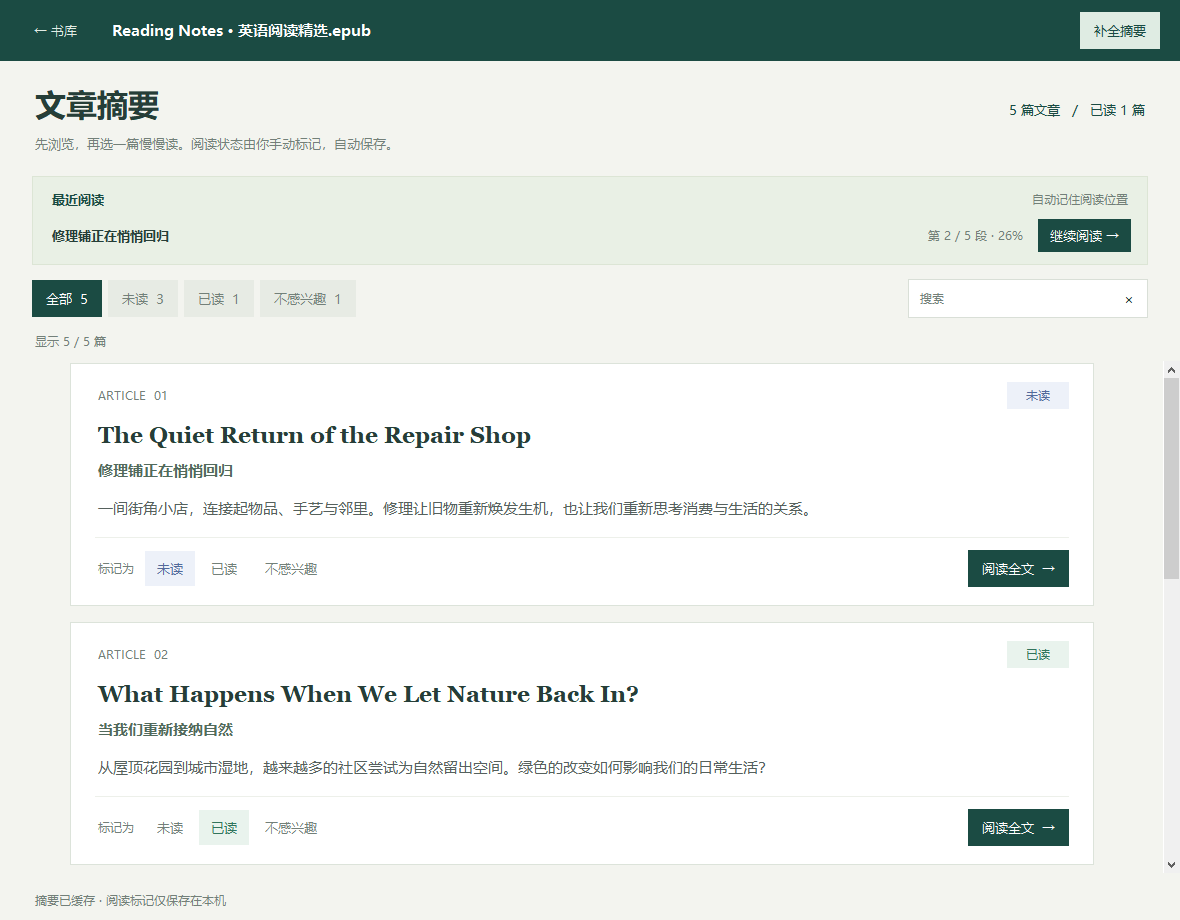
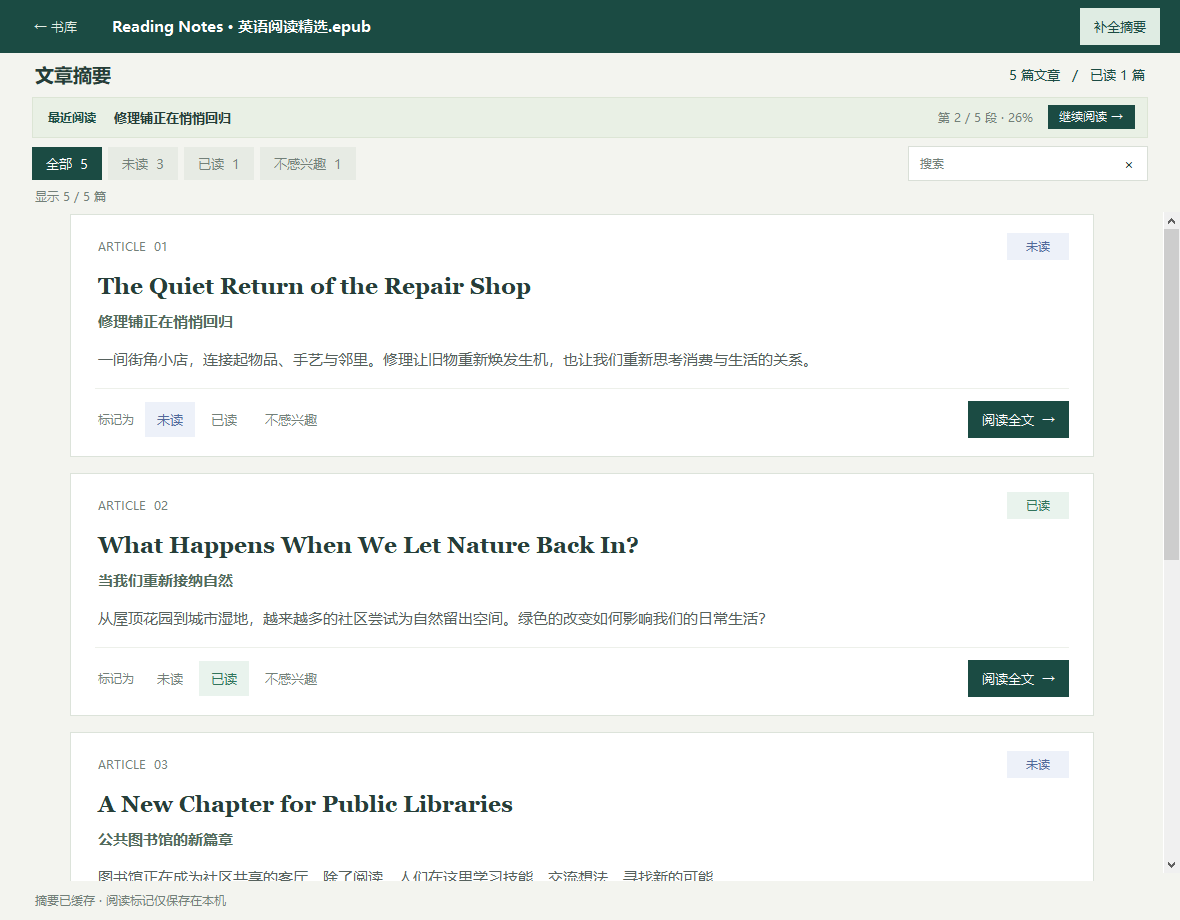
fix: 压缩摘要页顶部布局并复用段落生词窗口

diff --git a/tests/run_tests.py b/tests/run_tests.py
@@ -643,6 +643,84 @@ def test_vocab_sheet_scroll():
         app.destroy()
 
 
+@case("同段生词窗口复用、恢复、刷新与关闭重开")
+def test_vocab_sheet_reuse():
+    import tkinter as tk
+    from tkinter import ttk
+    from types import SimpleNamespace
+    from kandu.ui_reader import ReaderFrame
+
+    root = tk.Tk()
+    root.geometry("900x620")
+    app = SimpleNamespace(settings={"readerFontSize": 13, "sheetFontSize": 11,
+                                    "vocabLevel": "cet4", "llms": []},
+                          post=lambda *args: None, save_settings=lambda: None,
+                          open_digest=lambda *args: None)
+    meta = dict(META, id="T_VOCAB_REUSE")
+    article = {"index": 0, "title": "Repair stories", "paragraphs": ["Old objects.", "Useful skills."]}
+    errors = []
+    root.report_callback_exception = lambda *args: errors.append(args)
+    try:
+        reader = ReaderFrame(root, app, meta, 0)
+        reader.pack(fill="both", expand=True)
+        reader.on_content_loaded(({"articles": [article]}, 0))
+        reader.vocab = {"level": "cet4", "articleIndex": 0, "paragraphs": [
+            {"index": 0, "entries": [{"word": f"word{i}", "sense": "示例释义"} for i in range(100)]},
+            {"index": 1, "entries": [{"word": "ingenuity", "sense": "巧思"}]}]}
+        root.update()
+        reader._show_para_vocab(0)
+        root.update()
+        win, txt, bar = reader._vocab_sheets[0]
+        win.geometry("520x400")
+        root.update()
+        txt.yview_moveto(.45)
+        root.update()
+        scroll_index = txt.index("@0,0")
+        for _ in range(4):
+            reader._show_para_vocab(0)
+            root.update()
+            assert reader._vocab_sheets[0][0] is win
+            assert len([w for w in reader.winfo_children() if isinstance(w, tk.Toplevel)]) == 1
+            assert txt.index("@0,0") == scroll_index, "重复查看应保留当前可见词条，不能跳到开头"
+        assert not win.attributes("-topmost") and root.grab_current() is None and not win.transient()
+        win.withdraw()
+        root.update()
+        reader._show_para_vocab(0)
+        root.update()
+        assert win.winfo_ismapped() and win.focus_lastfor() is txt, "应恢复已有窗口并聚焦词条"
+        reader.vocab["paragraphs"][0]["entries"][0].update(
+            sense="最新释义", senseSource="dictionary", contextPending=True)
+        for _ in range(3):
+            reader._show_para_vocab(0)
+            root.update()
+        assert "最新释义" in txt.get("1.0", "end"), "复用窗口应显示最新缓存词条"
+        enrich = lambda: [w for w in bar.winfo_children() if isinstance(w, ttk.Button)
+                          and str(w.cget("text")).startswith("补充本文释义")]
+        assert len(enrich()) == 1, "复用窗口不能重复添加补充释义按钮"
+        reader.vocab["paragraphs"][0]["entries"][0].pop("senseSource")
+        reader.vocab["paragraphs"][0]["entries"][0].pop("contextPending")
+        reader._show_para_vocab(0)
+        assert not enrich(), "补充释义完成后不能保留旧按钮"
+        reader._show_para_vocab(1)
+        reader._show_full_vocab()
+        root.update()
+        assert len(reader._vocab_sheets) == 3, "不同段落与全篇窗口应各自独立"
+        full = reader._vocab_sheets[None][0]
+        reader._show_full_vocab()
+        assert reader._vocab_sheets[None][0] is full
+        win.destroy()
+        assert 0 not in reader._vocab_sheets, "关闭窗口必须清理登记"
+        reader._show_para_vocab(0)
+        root.update()
+        replacement = reader._vocab_sheets[0][0]
+        assert replacement is not win and replacement.winfo_ismapped()
+        reader.destroy()
+        assert not reader._vocab_sheets, "离开文章时必须关闭窗口并清理登记"
+        assert not errors, errors
+    finally:
+        root.destroy()
+
+
 @case("阅读弹窗首次与重复打开均可切回正文")
 def test_reader_sheet_activation():
     if sys.platform != "win32":
@@ -924,6 +1002,48 @@ def test_digest_browsing():
             x, y = root.winfo_rootx(), root.winfo_rooty()
             ImageGrab.grab((x, y, x + root.winfo_width(), y + root.winfo_height())).save(target)
         assert not errors, f"界面回调异常：{errors}"
+    finally:
+        root.destroy()
+
+
+@case("摘要顶部紧凑布局与最近阅读入口")
+def test_digest_compact_header():
+    import tkinter as tk
+    from types import SimpleNamespace
+    from kandu.ui_digest import DigestFrame
+
+    meta = dict(META, id="T_COMPACT_DIGEST")
+    digest = {"bookId": meta["id"], "articles": [
+        {"index": i, "titleEn": f"A story about repair {i}", "titleZh": f"修理铺的故事 {i}",
+         "summaryZh": "人们重新学习修理物品，让熟悉的街区再次焕发生机。"} for i in range(12)]}
+    store.save_digest(digest)
+    for i in range(3):
+        store.save_reading_progress(meta["id"], i, {
+            "title": digest["articles"][i]["titleEn"], "titleZh": digest["articles"][i]["titleZh"],
+            "paragraphIndex": i + 1, "paragraphOffset": 0, "paragraphStart": "People repair things.",
+            "paragraphCount": 30, "wordCount": 1200, "progress": (i + 1) / 30,
+            "atStart": False, "atEnd": False})
+    opened = []
+    app = SimpleNamespace(settings={"llms": []}, show_library=lambda: None,
+                          open_reader=lambda book, index: opened.append(index),
+                          post=lambda *args: (_ for _ in ()).throw(AssertionError("不能调用 LLM")))
+    root = tk.Tk()
+    try:
+        with patch.object(gen, "digest_incomplete", return_value=False):
+            frame = DigestFrame(root, app, meta)
+        frame.pack(fill="both", expand=True)
+        for geometry in ("900x620", "1180x800"):
+            root.geometry(geometry)
+            root.update()
+            top = frame.canvas.winfo_rooty() - frame.winfo_rooty()
+            assert top <= 285, f"三个最近阅读入口时顶部占用过多：{geometry}, {top}px"
+            assert frame.canvas.winfo_height() > root.winfo_height() / 2
+            assert len(frame.recent_buttons) == 3 and frame.recent_section.winfo_ismapped()
+            for button in frame.recent_buttons.values():
+                assert button.winfo_ismapped() and button.winfo_width() >= button.winfo_reqwidth()
+            print(f"  {geometry}: header {top}px, article viewport {frame.canvas.winfo_height()}px")
+        frame.recent_buttons[1].invoke()
+        assert opened == [1]
     finally:
         root.destroy()
 

diff --git a/kandu/ui_digest.py b/kandu/ui_digest.py
@@ -50,7 +50,7 @@ class DigestFrame(tk.Frame):
             self._filter = "all"
         self.search_var = tk.StringVar(self, value=view.get("search", ""))
 
-        bar = tk.Frame(self, bg=GREEN, padx=20, pady=12)
+        bar = tk.Frame(self, bg=GREEN, padx=20, pady=8)
         bar.pack(fill="x")
         bar.columnconfigure(1, weight=1)
         self._button(bar, "← 书库", self.app.show_library,
@@ -68,18 +68,16 @@ class DigestFrame(tk.Frame):
         self.gen_btn = self._button(actions, "补全摘要", self.generate, bg="#dfece3", fg=GREEN)
         self.gen_btn.pack(side="left")
 
-        heading = tk.Frame(self, bg=PAPER, padx=32, pady=20)
+        heading = tk.Frame(self, bg=PAPER, padx=32, pady=6)
         heading.pack(fill="x")
         title_row = tk.Frame(heading, bg=PAPER)
         title_row.pack(fill="x")
         tk.Label(title_row, text="文章摘要", bg=PAPER, fg=INK,
-                 font=(FAMILY, 23, "bold")).pack(side="left")
+                 font=(FAMILY, 14, "bold")).pack(side="left")
         self.overview = tk.Label(title_row, text="", bg=PAPER, fg=GREEN, font=(FAMILY, 10))
-        self.overview.pack(side="right", pady=(12, 0))
-        tk.Label(heading, text="先浏览，再选一篇慢慢读。阅读状态由你手动标记，自动保存。",
-                 bg=PAPER, fg=MUTED, font=(FAMILY, 10), anchor="w").pack(fill="x", pady=(4, 0))
+        self.overview.pack(side="right")
 
-        self.recent_section = tk.Frame(self, bg="#e9f0e5", padx=16, pady=10,
+        self.recent_section = tk.Frame(self, bg="#e9f0e5", padx=12, pady=4,
                                         highlightthickness=1, highlightbackground="#dce5d5")
         controls = tk.Frame(self, bg=PAPER, padx=32)
         self._controls = controls
@@ -89,11 +87,11 @@ class DigestFrame(tk.Frame):
         filters.grid(row=0, column=0, sticky="w")
         self.filter_buttons = {}
         for key, label in [("all", "全部"), *[(s, v[0]) for s, v in STATES.items()]]:
-            button = self._button(filters, label, lambda s=key: self._select_filter(s))
+            button = self._button(filters, label, lambda s=key: self._select_filter(s), pady=4)
             button.pack(side="left", padx=(0, 6))
             self.filter_buttons[key] = button
         search_box = tk.Frame(controls, bg="white", highlightthickness=1,
-                              highlightbackground="#d9dfd7", padx=8, pady=6)
+                              highlightbackground="#d9dfd7", padx=8, pady=4)
         search_box.grid(row=0, column=1, sticky="e", padx=(12, 0))
         tk.Label(search_box, text="搜索", bg="white", fg=MUTED, font=(FAMILY, 9)).pack(side="left", padx=(0, 8))
         self.search_entry = tk.Entry(search_box, textvariable=self.search_var, width=20,
@@ -102,7 +100,7 @@ class DigestFrame(tk.Frame):
         self.search_entry.bind("<Escape>", lambda e: self._reset_filters())
         self._button(search_box, "×", lambda: self.search_var.set(""), padx=3, pady=0).pack(side="left")
         self.result_label = tk.Label(controls, text="", bg=PAPER, fg=MUTED, font=(FAMILY, 9), anchor="w")
-        self.result_label.grid(row=1, column=0, columnspan=2, sticky="ew", pady=(12, 8))
+        self.result_label.grid(row=1, column=0, columnspan=2, sticky="ew", pady=(4, 4))
 
         self.progress_row = tk.Frame(self, bg=PAPER, padx=32, pady=8)
         self.progress_row.pack(side="bottom", fill="x")
@@ -271,18 +269,16 @@ class DigestFrame(tk.Frame):
         if not recent:
             self.recent_section.pack_forget()
             return
-        self.recent_section.pack(fill="x", padx=32, pady=(0, 14), before=self._controls)
-        heading = tk.Frame(self.recent_section, bg="#e9f0e5")
-        heading.pack(fill="x", pady=(0, 5))
-        tk.Label(heading, text="最近阅读", bg="#e9f0e5", fg=GREEN,
-                 font=(FAMILY, 10, "bold")).pack(side="left")
-        tk.Label(heading, text="自动记住阅读位置", bg="#e9f0e5", fg=MUTED,
-                 font=(FAMILY, 9)).pack(side="right")
+        self.recent_section.pack(fill="x", padx=32, pady=(0, 8), before=self._controls)
+        tk.Label(self.recent_section, text="最近阅读", bg="#e9f0e5", fg=GREEN,
+                 font=(FAMILY, 9, "bold")).pack(side="left", anchor="n", padx=(0, 12), pady=4)
+        rows = tk.Frame(self.recent_section, bg="#e9f0e5")
+        rows.pack(side="left", fill="x", expand=True)
         for rank, (index, record) in enumerate(recent):
             article = articles.get(index, {})
             title = article.get("titleZh") or record.get("titleZh") or article.get("titleEn") or record["title"]
-            row = tk.Frame(self.recent_section, bg="#e9f0e5")
-            row.pack(fill="x", pady=2)
+            row = tk.Frame(rows, bg="#e9f0e5")
+            row.pack(fill="x", pady=1)
             row.columnconfigure(0, weight=1)
             label = tk.Label(row, text=title, bg="#e9f0e5", fg=INK, anchor="w", width=1,
                              font=(FAMILY, 10, "bold" if rank == 0 else "normal"), cursor="hand2")
@@ -295,7 +291,8 @@ class DigestFrame(tk.Frame):
                      font=(FAMILY, 9)).grid(row=0, column=1, padx=(0, 12))
             button = self._button(row, "继续阅读 →", lambda i=index: self._open(i),
                                   bg=GREEN if rank == 0 else "#dce7d7", fg="white" if rank == 0 else GREEN,
-                                  padx=10, pady=4)
+                                  padx=10, pady=1)
+            button.configure(font=(FAMILY, 9))
             button.grid(row=0, column=2)
             self.recent_buttons[index] = button
 

diff --git a/kandu/ui_reader.py b/kandu/ui_reader.py
@@ -63,6 +63,7 @@ class ReaderFrame(tk.Frame):
         self.analysis_busy = set()
         self._last_click = (None, None)
         self._sheets = {}
+        self._vocab_sheets = {}
         self.article_digest = {}
         self._progress_fraction = 0
         self._article_word_count = 0
@@ -739,15 +740,40 @@ class ReaderFrame(tk.Frame):
         self._render_vocab_sheet(f"本篇生词表（{label}，{self._total_words()} 词）", only_para=None)
 
     def _render_vocab_sheet(self, title, only_para):
-        win, txt, bar = self._make_sheet(title, self.article["title"][:36])
+        entry = self._vocab_sheets.get(only_para)
+        if entry and entry[0].winfo_exists():
+            win, txt, bar = entry
+            position = txt.index("@0,0")
+            win.title(f"{title} — {self.article['title'][:36]}")
+            bar.winfo_children()[0].configure(text=title)
+            if win._enrich_button is not None:
+                win._enrich_button.destroy()
+        else:
+            win, txt, bar = self._make_sheet(title, self.article["title"][:36])
+            self._vocab_sheets[only_para] = (win, txt, bar)
+            position = "1.0"
+
+            def forget(event):
+                if event.widget is win and self._vocab_sheets.get(only_para, (None,))[0] is win:
+                    self._vocab_sheets.pop(only_para, None)
+
+            win.bind("<Destroy>", forget, add="+")
+        win._enrich_button = None
         _render_vocab(txt, self.vocab, only_para)
+        txt.update_idletasks()
+        txt.yview(position)
         pending = gen.vocab_context_pending(self.vocab)
         if pending:
             def enrich():
                 self.generate_vocab(enrich=True)
                 if self.vocab_running:
                     win.destroy()
-            ttk.Button(bar, text=f"补充本文释义（{pending} 词）", command=enrich).pack(side="right", padx=8, pady=3)
+            win._enrich_button = ttk.Button(bar, text=f"补充本文释义（{pending} 词）", command=enrich)
+            win._enrich_button.pack(side="right", padx=8, pady=3)
+        if entry and entry[0] is win:
+            win.deiconify()
+            win.lift()
+            txt.focus_set()
 
     # ---------- 公共弹层 ----------
     def _make_sheet(self, title, subtitle):

diff --git a/kandu/__init__.py b/kandu/__init__.py
@@ -1,3 +1,3 @@
 """刊读 · Kandu Desktop"""
 
-__version__ = "0.8.1"
+__version__ = "0.8.2"

diff --git a/README.md b/README.md
@@ -60,6 +60,10 @@
 
 数据目录：`%LOCALAPPDATA%\KanduDesktop`（settings.json / books.json / vocab / covers / cache / article_states）
 
+v0.8.2 压缩文章摘要页顶部区域：缩小标题、删除说明文字、减少最近阅读与筛选区留白，
+为文章摘要列表留出更多空间。同一段落与全篇生词表各自只打开一个窗口，重复点击会唤回已有窗口；
+保留滚动位置并刷新词条，关闭后可重新打开。
+
 v0.8.1 增加生词覆盖核对：本地四级词表之外、词典可确认的普通词必须收录，
 不再让模型以“常用词”为由二次删词。模型漏词时离线补齐并标注“词典释义（待补充本文含义）”，
 不伪造语境释义与词源；生词表提供“补充本文释义”按钮，只请求含待补词的段落，保留已有词条。
